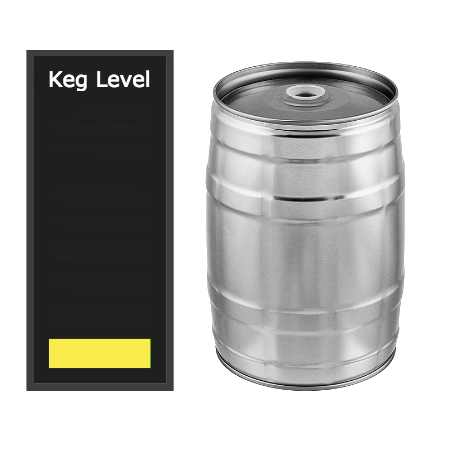
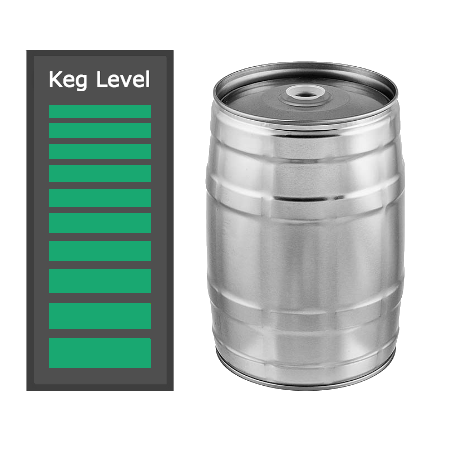
add more functionality and styling.

Changed region(s): [[0.0622, 0.1244, 0.3733, 0.8711]]

diff --git a/app/app.component.ts b/app/app.component.ts
@@ -7,9 +7,20 @@ import { Keg } from './keg.model';
   template: `
   <div class="container">
     <h1>Tap Room</h1>
-    <keg-list [childKegList]="masterKegList" (clickSender)="editKeg($event)"></keg-list>
-    <edit-keg [childSelectedKeg]="selectedKeg" (doneButtonClickSender)="finishedEditing"></edit-keg>
-    <!--<new-keg></new-keg>-->
+
+    <div class="row">
+    <div class="col-md-6">
+
+    <div class="card pa2 grow f3-ns no-underline bg-dark-green white-90">
+    <button class="tc"(click)="addNewButton()"><i class="fa fa-plus tc fa-lg "></i></button>
+    </div>
+    <keg-list [childKegList]="masterKegList" (clickSender)="editKeg($event)" (detailsClickSender)="detailsKeg($event)"></keg-list>
+    </div>
+    <div class="col-md-6 ba pt4 details">
+    <keg-details [kegDetailsSelectedKeg]="selectedDetailsKeg"></keg-details>
+    </div>
+    <edit-keg [childSelectedKeg]="selectedKeg" (doneButtonClickSender)="finishedEditing()"></edit-keg>
+    <new-keg [addNewButtonInput]="addNewButtonClicked" (newKegSender)="addKeg($event)"></new-keg>
   </div>
   `
 })
@@ -17,11 +28,15 @@ import { Keg } from './keg.model';
 export class AppComponent {
 
   selectedKeg = null;
+  selectedDetailsKeg = null;
+  addNewButtonClicked = null;
 
   masterKegList: Keg[] = [
     new Keg('Fremont Summer Ale', 'Fremont Brewing Company', 6, 5.2),
-    new Keg('Moon Tower Stout ', 'Hellbent Brewing Company', 5, 6.4),
-    new Keg('Hop Session', 'Dru Bru', 6, 4.7)
+    new Keg('Moon Tower Stout', 'Hellbent Brewing Company', 5, 6.4),
+    new Keg('Hop Session', 'Dru Bru', 6, 4.7),
+    new Keg('Fremont Summer Ale', 'Fremont Brewing Company', 7, 8.2),
+    new Keg('Dark Bru', 'Dru Bru', 5, 6.7)
   ];
 
   editKeg(clickedKeg) {
@@ -33,7 +48,18 @@ export class AppComponent {
   }
 
   addKeg(newKegFromChild: Keg) {
-    this.masterKegList.push(newKegFromChild);
+    if(newKegFromChild) {
+      this.masterKegList.push(newKegFromChild);
+    }
+    this.addNewButtonClicked = null;
+  }
+
+  addNewButton() {
+    this.addNewButtonClicked = true;
+  }
+
+  detailsKeg(clickedKeg) {
+    this.selectedDetailsKeg = clickedKeg;
   }
 
 }

diff --git a/app/keg-details.component.ts b/app/keg-details.component.ts
@@ -1,0 +1,68 @@
+import { Component, Input, Output, EventEmitter } from '@angular/core';
+import { Keg } from './keg.model';
+
+// Math.floor(this.kegDetailsSelectedKeg.numberOfPints / 12.4)
+
+@Component({
+  selector: 'keg-details',
+  template: `
+  <div *ngIf="kegDetailsSelectedKeg">
+    <div class="row">
+      <div class="keg-level">
+        <button class="btn ma2 fr back-button" (click)="backButton()">x</button>
+        <h4 class="tc">{{kegDetailsSelectedKeg.name}}</h4>
+        <h5 class="tc"> Remaining Pints: {{kegDetailsSelectedKeg.numberOfPints}}</h5>
+        <img src={{kegDetailsSelectedKeg.imageUrl}}>
+      </div>
+    </div>
+
+    <div class="row">
+    <div class="col-md-6 tc">
+      <div *ngIf="kegDetailsSelectedKeg.numberOfPints > 0">
+        <button class="btn btn-info ma2"(click)="sellPint()">Sell Pint</button>
+      </div>
+      <div *ngIf="kegDetailsSelectedKeg.numberOfPints > 4">
+        <button class="btn btn-info ma2" (click)="sellGrowler()">Sell Growler</button>
+        </div>
+      </div>
+      <div class="col-md-6 tc">
+      <button class="btn btn-info ma2" (click)="sellKeg()">Sell Keg</button>
+      <button class="btn btn-info ma2" (click)="replaceKeg()">Order Replacement</button>
+      </div>
+  </div>
+  </div>
+  `
+})
+
+export class KegDetailsComponent {
+
+  @Input() kegDetailsSelectedKeg: Keg;
+  @Output() moneyKegSender = new EventEmitter();
+
+  imageNumber: number;
+
+  sellPint() {
+    this.kegDetailsSelectedKeg.numberOfPints -= 1;
+    this.kegDetailsSelectedKeg.changeImage();
+  }
+
+  sellGrowler() {
+    this.kegDetailsSelectedKeg.numberOfPints -= 4;
+    this.kegDetailsSelectedKeg.changeImage();
+  }
+
+  sellKeg() {
+    //money output
+  }
+
+  replaceKeg() {
+    this.kegDetailsSelectedKeg.numberOfPints = 124;
+    this.kegDetailsSelectedKeg.changeImage();
+  }
+
+  backButton() {
+    //
+  }
+
+
+}

diff --git a/app/keg-list.component.ts b/app/keg-list.component.ts
@@ -4,30 +4,30 @@ import { Keg } from './keg.model';
 @Component({
   selector: 'keg-list',
   template: `
-  <div class="row">
-  <div class="col-md-5">
+
     <div class="card" *ngFor="let currentKeg of childKegList">
       <div class="card-block">
-        <button (click)="editButtonHasBeenClicked(currentKeg)"><img src="./../resources/img/glyphicons-31-pencil.png"></button>
+        <button class="edit-button"(click)="editButtonHasBeenClicked(currentKeg)"><i class="fa fa-pencil fa-lg" aria-hidden="true"></i></button>
+        <button class="details-button" (click)="detailsButtonHasBeenClicked(currentKeg)"><i class="fa fa-signal fa-lg" aria-hidden="true"></i></button>
         <h4 class="card-title">{{currentKeg.name}}</h4>
         <h6 class="card-subtitle mb-2 text-muted">{{currentKeg.brand}}</h6>
-        <h5 class="card-text"><span class="badge badge-success">Price: \${{currentKeg.price}}</span> <span class="badge badge-default">ABV: {{currentKeg.abv}}</span></h5>
+        <h5 class="card-text"><span class="badge badge-success">Price: \${{currentKeg.price}}</span> <span class="badge badge-default">ABV: {{currentKeg.abv}}%</span></h5>
       </div>
     </div>
-  </div>
-  <div class="col-md-5 keg-level">
-  <img src="./../resources/img/keg1.png">
-  </div>
-  </div>
   `
 })
 
 export class KegListComponent {
   @Input() childKegList: Keg[];
   @Output() clickSender = new EventEmitter();
+  @Output() detailsClickSender = new EventEmitter();
 
   editButtonHasBeenClicked(kegToEdit: Keg) {
     this.clickSender.emit(kegToEdit);
+  }
+
+  detailsButtonHasBeenClicked(kegToDetail: Keg) {
+    this.detailsClickSender.emit(kegToDetail);
   }
 
 }

diff --git a/app/new-keg.component.ts b/app/new-keg.component.ts
@@ -1,0 +1,39 @@
+import { Component, Input, Output, EventEmitter } from '@angular/core';
+import { Keg } from './keg.model';
+
+
+@Component({
+  selector: 'new-keg',
+  template: `
+  <div *ngIf="addNewButtonInput">
+    <h1>New Keg</h1>
+      <label>Enter Keg Name</label>
+      <input #newName>
+      <label>Enter Keg Brand</label>
+      <input #newBrand>
+      <label>Enter Price Per Pint</label>
+      <input #newPrice>
+      <label>Enter Keg Alcohol Content</label>
+      <input #newContent>
+      <button (click)="submitForm(newName.value, newBrand.value, newPrice.value, newContent.value);">Add New Keg</button>
+      <button (click)="cancelButton()">Cancel</button>
+  </div>
+  `
+})
+
+export class NewKegComponent {
+  @Input() addNewButtonInput: Keg;
+  @Output() newKegSender = new EventEmitter();
+
+  submitForm(newName: string, newBrand: string, newPrice: number, newContent: number) {
+    var newKegToAdd: Keg = new Keg(newName, newBrand, newPrice, newContent);
+    this.newKegSender.emit(newKegToAdd);
+
+  }
+
+  cancelButton() {
+    this.newKegSender.emit(null);
+  }
+
+
+  }

diff --git a/app/app.module.ts b/app/app.module.ts
@@ -4,12 +4,16 @@ import { AppComponent }   from './app.component';
 import { KegListComponent } from './keg-list.component';
 import { EditKegComponent } from './edit-keg.component';
 import { FormsModule } from '@angular/forms';
+import { NewKegComponent } from './new-keg.component';
+import { KegDetailsComponent } from './keg-details.component';
 
 @NgModule({
   imports: [ BrowserModule, FormsModule ],
   declarations: [ AppComponent,
                   KegListComponent,
-                  EditKegComponent
+                  EditKegComponent,
+                  NewKegComponent,
+                  KegDetailsComponent
                  ],
   bootstrap:    [ AppComponent ]
 })

diff --git a/index.html b/index.html
@@ -5,6 +5,8 @@
     <meta name="viewport" content="width=device-width, initial-scale=1">
     <script src="build/js/vendor.min.js"></script>
     <link rel="stylesheet" href="build/css/vendor.css">
+    <link rel="stylesheet" href="node_modules/tachyons/css/tachyons.css">
+    <link rel="stylesheet" href="https://maxcdn.bootstrapcdn.com/font-awesome/4.7.0/css/font-awesome.min.css">
     <!-- 1. Load libraries -->
      <!-- Polyfill(s) for older browsers -->
     <script src="node_modules/core-js/client/shim.min.js"></script>

diff --git a/resources/styles/styles.css b/resources/styles/styles.css
@@ -21,9 +21,6 @@ h1 {
   border: none;
   background:none !important;
   outline: inherit !important;
-  position:absolute;
-  left: 10px;
-  top: 10px;
 }
 
 .card button:hover {
@@ -35,6 +32,28 @@ h1 {
   opacity: 0.1;
 }
 
+.edit-button {
+  position:absolute;
+  left: 10px;
+  top: 10px;
+}
+
+.details-button {
+  position: absolute;
+  right: 10px;
+  top:10px;
+}
+
 .keg-level {
   margin-left: 10%;
+}
+
+.details {
+  color: #505050;
+}
+
+.back-button {
+  position:absolute;
+  right: 10px;
+  top: 10px;
 }

diff --git a/app/keg.model.ts b/app/keg.model.ts
@@ -1,4 +1,13 @@
 export class Keg {
   public numberOfPints: number = 124;
+  public imageUrl: string = `./../resources/img/keg${Math.floor(this.numberOfPints / 12.4)}.png`
   constructor(public name: string, public brand: string, public price: number, public abv: number) {}
+
+  changeImage() {
+    if (this.numberOfPints < 1) {
+      this.imageUrl = './../resources/img/kegkicked.png';
+    } else {
+      this.imageUrl = `./../resources/img/keg${Math.floor(this.numberOfPints / 12.4)}.png`
+    }
+  }
 }
